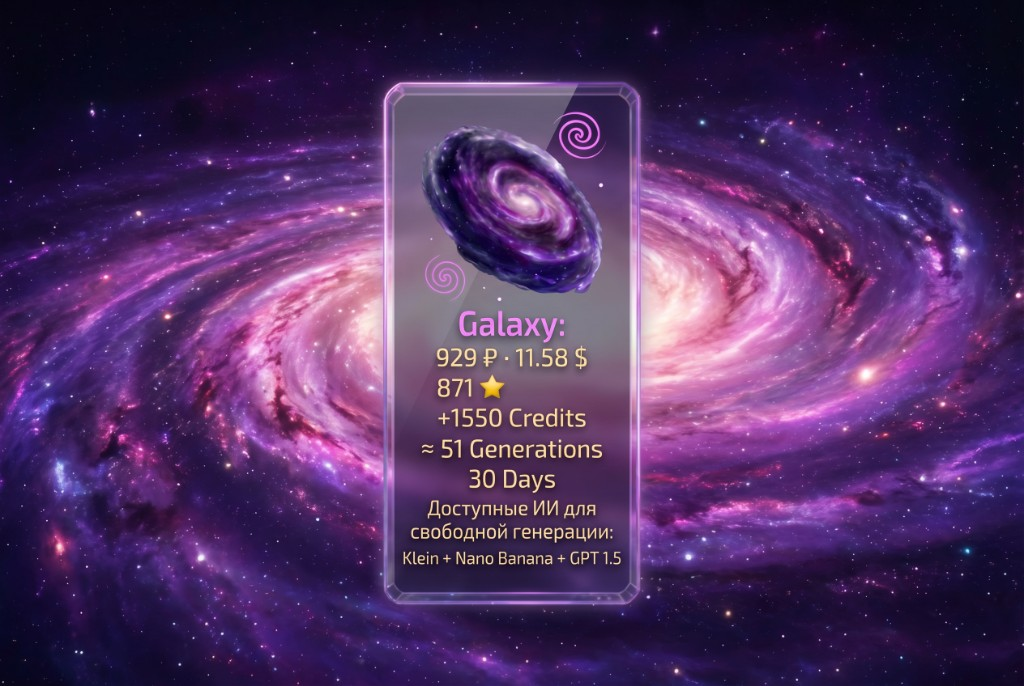
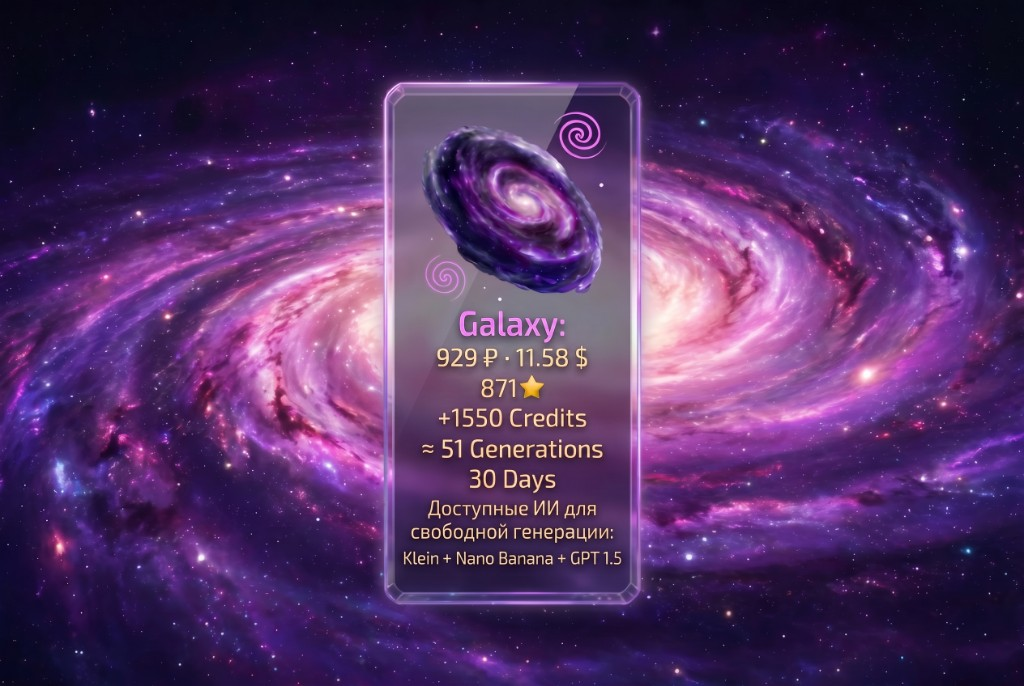
Payments: edit-in-place for tariffs/bonus; Galaxy and Starter preview assets
- send_subscription_menu and pay_bonus_menu use edit_media instead of delete+send when possible

- Replace galaxy_subscription_preview.png; add starter_subscription_preview.png

Made-with: Cursor

diff --git a/src/handlers/payments.py b/src/handlers/payments.py
@@ -171,17 +171,10 @@ def _plan_pay_perks_block_html(plan_id: str) -> str:
     return f"<blockquote>{body}</blockquote>\n"
 
 
-def _plan_list_button_text(plan_id: str, p: SubscriptionPlan) -> str:
-    """Подпись кнопки в меню тарифов (Telegram ≤64 символов)."""
+def _plan_list_button_text(p: SubscriptionPlan) -> str:
+    """Подпись кнопки в меню тарифов (Telegram ≤64 символов): название, кредиты, цена в ₽."""
     name = p.title.split(" ", 1)[-1]
-    tag = {
-        "starter": "3 дн · все модели",
-        "nova": "Klein 4B",
-        "supernova": "Klein+NB",
-        "galaxy": "+GPT 1.5",
-        "universe": "все · приоритет",
-    }.get(plan_id, "")
-    s = f"{name} — {tag} · +{p.bonus_credits} кр. · {p.price_rub} ₽"
+    s = f"{name} — +{p.bonus_credits} кр. · {p.price_rub} ₽"
     return s[:64]
 
 def _plan_invoice_plain_texts(plan_id: str) -> tuple[str, str, str]:
@@ -382,6 +375,7 @@ def _subscriptions_pricing_image_path() -> Path | None:
 def _plan_payment_preview_image_path(plan_id: str) -> Path | None:
     """Экран оплаты выбранного тарифа — отдельная карточка-превью; общий баннер см. subscriptions_pricing."""
     name = {
+        "starter": "starter_subscription_preview.png",
         "nova": "nova_subscription_preview.png",
         "supernova": "supernova_subscription_preview.png",
         "galaxy": "galaxy_subscription_preview.png",
@@ -474,7 +468,7 @@ def _plans_keyboard(
         rows.append(
             [
                 InlineKeyboardButton(
-                    text=_plan_list_button_text(pid, p),
+                    text=_plan_list_button_text(p),
                     callback_data=f"{CB_PAY_PLAN_PREFIX}{pid}",
                     style=BTN_PRIMARY,
                     icon_custom_emoji_id=icon_id,
@@ -775,10 +769,26 @@ async def send_subscription_menu(
     if replace_previous and pricing_img and pricing_img.is_file():
         caption = _plans_menu_photo_caption()
         kb = _plans_keyboard(back_callback=back_callback, bonus_menu_callback=bonus_menu_callback)
+        if message.photo and not _is_generated_image_result_message(message):
+            try:
+                await message.edit_media(
+                    media=InputMediaPhoto(
+                        media=FSInputFile(pricing_img),
+                        caption=caption,
+                        parse_mode=HTML,
+                    ),
+                    reply_markup=kb,
+                )
+                return
+            except Exception:
+                logger.debug(
+                    "send_subscription_menu: edit_media на баннер тарифов не удался, fallback delete+send",
+                    exc_info=True,
+                )
         try:
             await message.delete()
         except Exception:
-            logging.debug(
+            logger.debug(
                 "send_subscription_menu: не удалось удалить сообщение перед баннером тарифов",
                 exc_info=True,
             )
@@ -933,18 +943,30 @@ async def pay_bonus_menu(callback: CallbackQuery) -> None:
         pay_menu_callback=(CB_PAY_MENU_HUB if is_hub else CB_PAY_MENU),
         universe_discount=universe_discount,
     )
-    if _plans_screen_uses_pricing_image() and callback.message.photo:
+    pricing_img = _subscriptions_pricing_image_path()
+    if (
+        callback.message.photo
+        and not _is_generated_image_result_message(callback.message)
+        and _plans_screen_uses_pricing_image()
+        and pricing_img
+        and pricing_img.is_file()
+        and len(bonus_text) <= 1024
+    ):
         try:
-            await callback.message.delete()
+            await callback.message.edit_media(
+                media=InputMediaPhoto(
+                    media=FSInputFile(pricing_img),
+                    caption=bonus_text,
+                    parse_mode=HTML,
+                ),
+                reply_markup=bonus_kb,
+            )
+            return
         except Exception:
-            logging.debug("pay_bonus_menu: не удалось удалить фото тарифов перед пакетами", exc_info=True)
-        await callback.bot.send_message(
-            callback.message.chat.id,
-            bonus_text,
-            reply_markup=bonus_kb,
-            parse_mode=HTML,
-        )
-        return
+            logger.debug(
+                "pay_bonus_menu: edit_media на баннер + подпись пакетов не удался, fallback",
+                exc_info=True,
+            )
     await edit_or_send_nav_message(
         callback.message,
         text=bonus_text,
